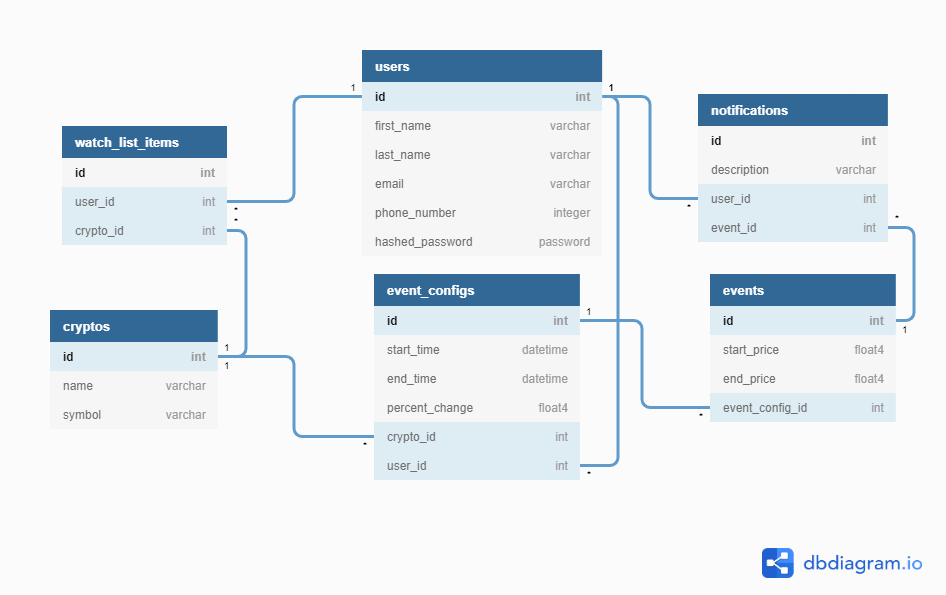
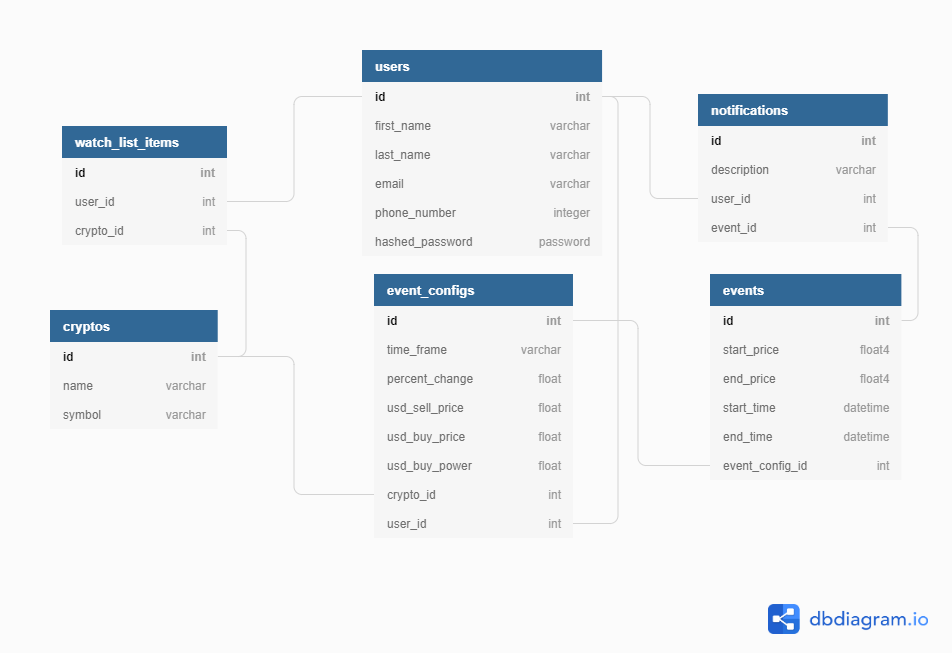
Update ERD and redo migrations to remove bug

diff --git a/migrations/versions/9677d29bbed2_.py b/migrations/versions/9677d29bbed2_.py
@@ -1,8 +1,8 @@
 """empty message
 
-Revision ID: c91547994777
-Revises:
-Create Date: 2020-08-11 20:04:58.512082
+Revision ID: 9677d29bbed2
+Revises: 
+Create Date: 2020-08-17 12:18:49.723615
 
 """
 from alembic import op
@@ -10,7 +10,7 @@ import sqlalchemy as sa
 
 
 # revision identifiers, used by Alembic.
-revision = 'c91547994777'
+revision = '9677d29bbed2'
 down_revision = None
 branch_labels = None
 depends_on = None
@@ -22,12 +22,6 @@ def upgrade():
     sa.Column('id', sa.Integer(), nullable=False),
     sa.Column('name', sa.String(length=25), nullable=False),
     sa.Column('symbol', sa.String(length=3), nullable=False),
-    sa.PrimaryKeyConstraint('id')
-    )
-    op.create_table('events',
-    sa.Column('id', sa.Integer(), nullable=False),
-    sa.Column('start_price', sa.Float(), nullable=False),
-    sa.Column('end_price', sa.Float(), nullable=False),
     sa.PrimaryKeyConstraint('id')
     )
     op.create_table('users',
@@ -43,23 +37,14 @@ def upgrade():
     )
     op.create_table('event_configs',
     sa.Column('id', sa.Integer(), nullable=False),
-    sa.Column('time_frame', sa.String(10), nullable=False),
+    sa.Column('time_frame', sa.String(), nullable=False),
     sa.Column('percent_change', sa.Float(), nullable=False),
-    sa.Column("crypto_sell_price", sa.Float(), nullable=True),
-    sa.Column("crypto_buy_price", sa.Float(), nullable=True),
-    sa.Column("usd_buy_power", sa.Float(), nullable=True),
+    sa.Column('usd_sell_price', sa.Float(), nullable=True),
+    sa.Column('usd_buy_price', sa.Float(), nullable=True),
+    sa.Column('usd_buy_power', sa.Float(), nullable=True),
     sa.Column('crypto_id', sa.Integer(), nullable=False),
     sa.Column('user_id', sa.Integer(), nullable=False),
     sa.ForeignKeyConstraint(['crypto_id'], ['cryptos.id'], ),
-    sa.ForeignKeyConstraint(['user_id'], ['users.id'], ),
-    sa.PrimaryKeyConstraint('id')
-    )
-    op.create_table('notifications',
-    sa.Column('id', sa.Integer(), nullable=False),
-    sa.Column('description', sa.Text(), nullable=False),
-    sa.Column('user_id', sa.Integer(), nullable=False),
-    sa.Column('event_id', sa.Integer(), nullable=False),
-    sa.ForeignKeyConstraint(['event_id'], ['events.id'], ),
     sa.ForeignKeyConstraint(['user_id'], ['users.id'], ),
     sa.PrimaryKeyConstraint('id')
     )
@@ -71,14 +56,33 @@ def upgrade():
     sa.ForeignKeyConstraint(['user_id'], ['users.id'], ),
     sa.PrimaryKeyConstraint('id')
     )
+    op.create_table('events',
+    sa.Column('id', sa.Integer(), nullable=False),
+    sa.Column('usd_start_price', sa.Float(), nullable=False),
+    sa.Column('usd_end_price', sa.Float(), nullable=False),
+    sa.Column('start_time', sa.DateTime(), nullable=False),
+    sa.Column('end_time', sa.DateTime(), nullable=False),
+    sa.Column('event_config_id', sa.Integer(), nullable=False),
+    sa.ForeignKeyConstraint(['event_config_id'], ['event_configs.id'], ),
+    sa.PrimaryKeyConstraint('id')
+    )
+    op.create_table('notifications',
+    sa.Column('id', sa.Integer(), nullable=False),
+    sa.Column('description', sa.Text(), nullable=False),
+    sa.Column('user_id', sa.Integer(), nullable=False),
+    sa.Column('event_id', sa.Integer(), nullable=False),
+    sa.ForeignKeyConstraint(['event_id'], ['events.id'], ),
+    sa.ForeignKeyConstraint(['user_id'], ['users.id'], ),
+    sa.PrimaryKeyConstraint('id')
+    )
     # ### end Alembic commands ###
 
 
 def downgrade():
     # ### commands auto generated by Alembic - please adjust! ###
-    op.drop_table('watch_list_items')
     op.drop_table('notifications')
     op.drop_table('events')
+    op.drop_table('watch_list_items')
     op.drop_table('event_configs')
     op.drop_table('users')
     op.drop_table('cryptos')

diff --git a/app/models/models.py b/app/models/models.py
@@ -68,9 +68,9 @@ class Event_Config(db.Model):
   id = db.Column(db.Integer, primary_key=True)
   time_frame = db.Column(db.String, nullable=False)
   percent_change = db.Column(db.Float, nullable=False)
-  usd_sell_price = db.Column(db.Float, nullable=True),
-  usd_buy_price = db.Column(db.Float, nullable=True),
-  usd_buy_power = db.Column(db.Float, nullable=True),
+  usd_sell_price = db.Column(db.Float, nullable=True)
+  usd_buy_price = db.Column(db.Float, nullable=True)
+  usd_buy_power = db.Column(db.Float, nullable=True)
   crypto_id = db.Column(db.Integer, db.ForeignKey('cryptos.id'), nullable=False)
   user_id = db.Column(db.Integer, db.ForeignKey('users.id'), nullable=False)
 

diff --git a/database.py b/database.py
@@ -70,8 +70,8 @@ with app.app_context():
     user_id=1,
   )
   event_1 = Event(
-    usd_start_price=12000,
-    usd_end_price=12050,
+    usd_start_price=12000.0,
+    usd_end_price=12050.0,
     start_time=datetime.datetime(2020, 8, 5),
     end_time=datetime.datetime(2020, 8, 12),
     event_config_id=1
